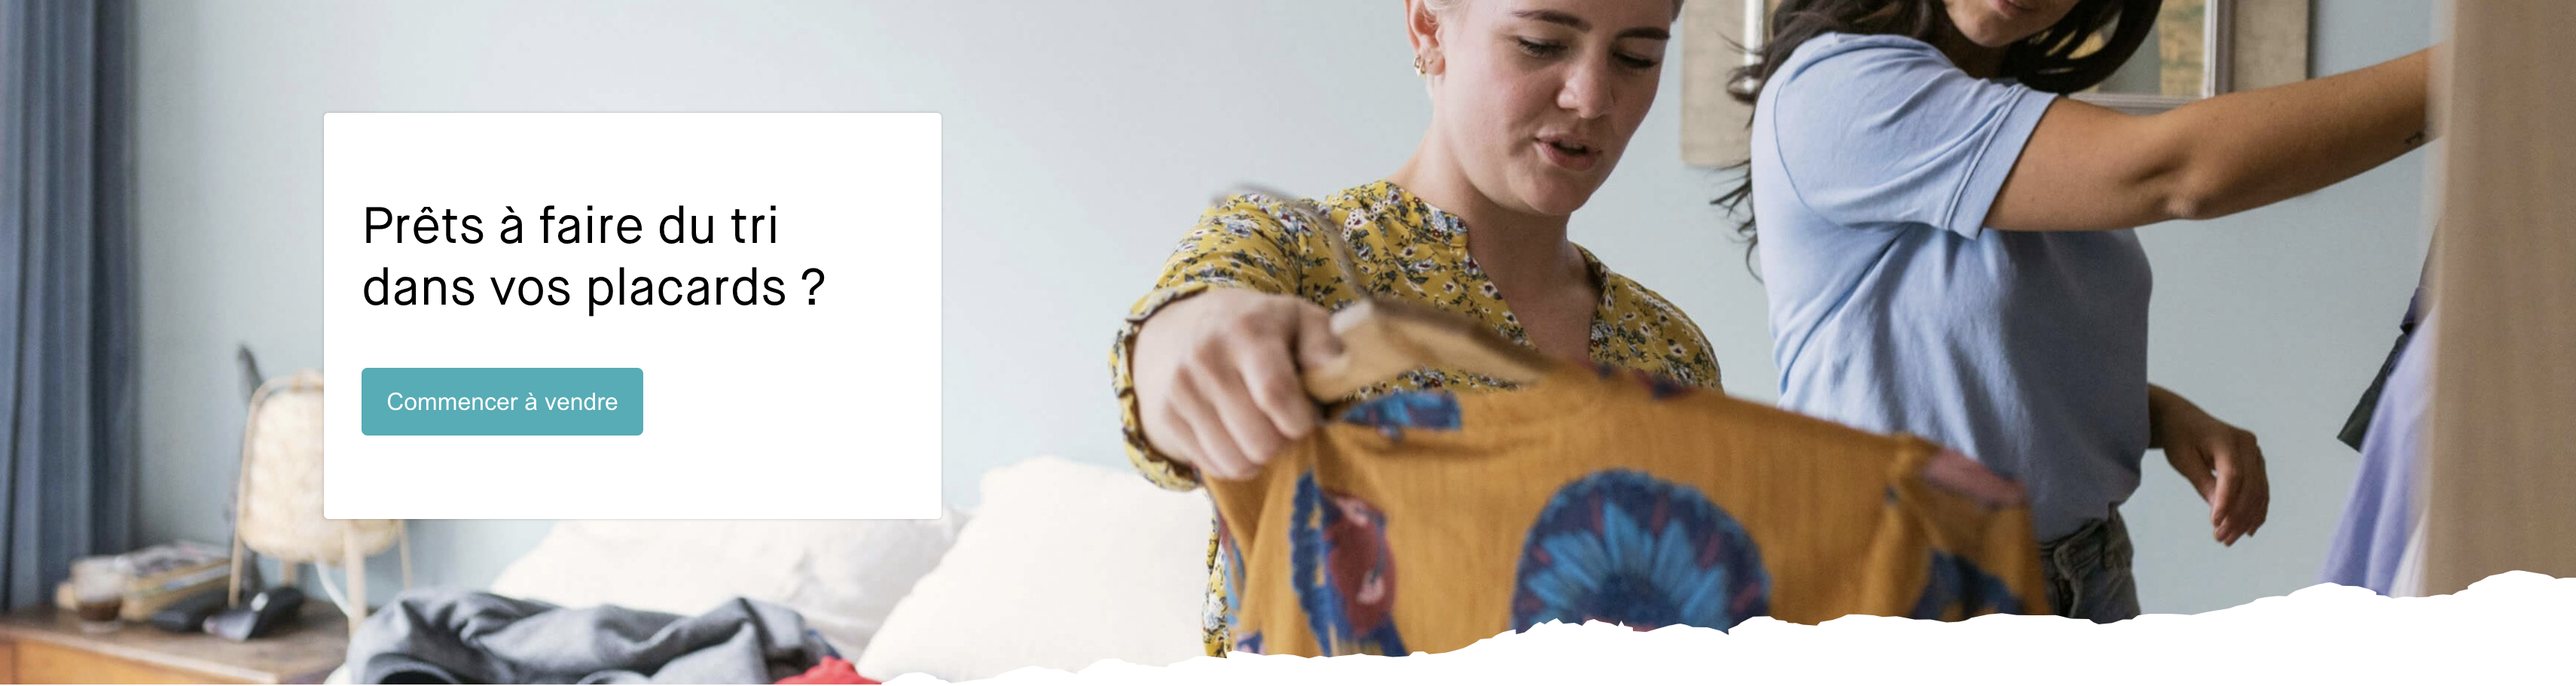
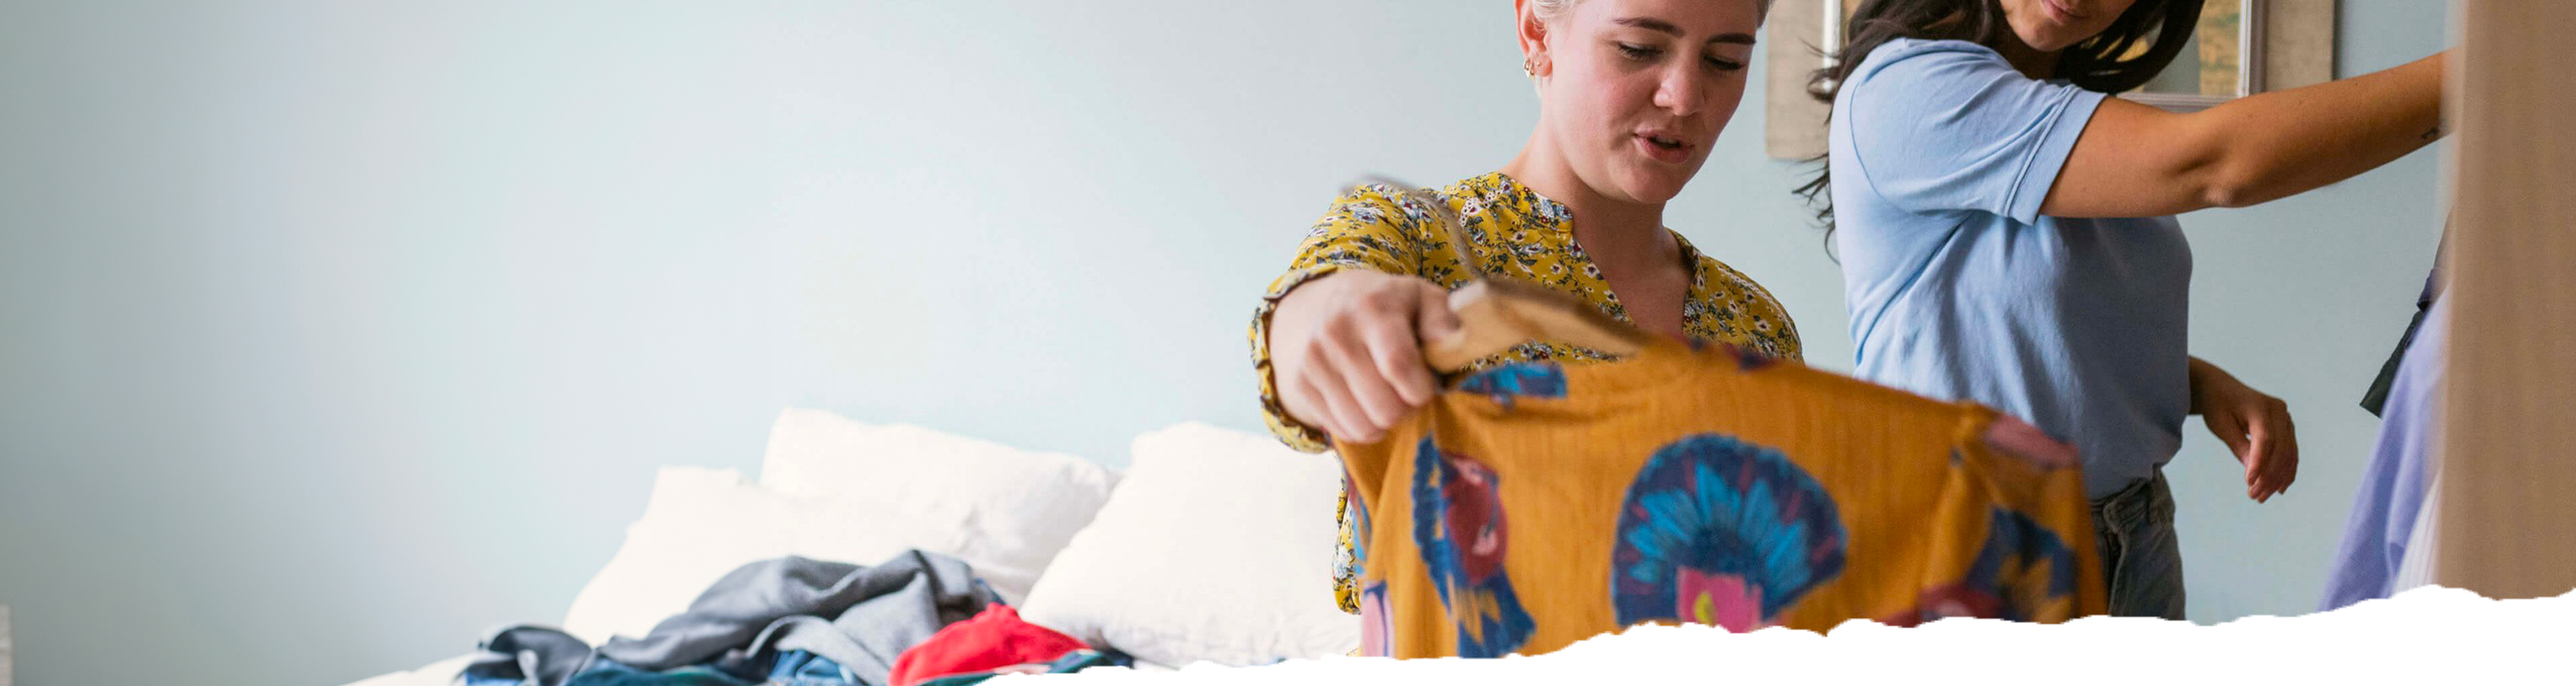
V0.9

diff --git a/src/App.jsx b/src/App.jsx
@@ -16,8 +16,10 @@ function App() {
   const [filter, setFilter] = useState(false);
   const [token, setToken] = useState("");
   const [valueToken, setValueToken] = useState(false);
+  const [modalsignup, setModalsignup] = useState(false);
+  const [modalLogin, setModalLogin] = useState(false);
 
-  // -------------------GET DATA ARTICLES-------------------------
+  // -------------------APPEL API (pour récupérer les produits) -------------------------
   useEffect(() => {
     const fetchData = async () => {
       try {
@@ -77,9 +79,25 @@ function App() {
         setToken={setToken}
         valueToken={valueToken}
         setValueToken={setValueToken}
+        modalLogin={modalLogin}
+        setModalLogin={setModalLogin}
+        modalsignup={modalsignup}
+        setModalsignup={setModalsignup}
       />
       <Routes>
-        <Route path="/" element={<Home data={data} />} />
+        <Route
+          path="/"
+          element={
+            <Home
+              data={data}
+              modalLogin={modalLogin}
+              setModalLogin={setModalLogin}
+              modalsignup={modalsignup}
+              setModalsignup={setModalsignup}
+              valueToken={valueToken}
+            />
+          }
+        />
         <Route path="/Offer/:id" element={<Offer data={data} />} />
       </Routes>
     </Router>

diff --git a/src/components/header.jsx b/src/components/header.jsx
@@ -15,16 +15,18 @@ const Header = ({
   setToken,
   valueToken,
   setValueToken,
+  modalLogin,
+  setModalLogin,
+  modalsignup,
+  setModalsignup,
 }) => {
-  const [modalsignup, setModalsignup] = useState(false);
-  const [modalLogin, setModalLogin] = useState(false);
   const [bgLock, setBgLock] = useState("");
 
   // console.log(Cookies.get("token"));
   // console.log("token >>>>>>", token);
   // console.log("valueToken>>>>", valueToken);
 
-  // pour gérer la fenetre modal
+  //etats pour gérer les fenetres modal
   useEffect(() => {
     if (modalLogin || modalsignup) {
       document.body.style.overflow = "hidden";
@@ -80,7 +82,7 @@ const Header = ({
               FILTRES
             </div>
           </div>
-          {/* ------------------------FENETRE MODEL--------------------------- */}
+          {/* ------------------------FENETRES MODEL--------------------------- */}
           <div className="menup-box">
             <div className="menup1">
               <button
@@ -100,6 +102,7 @@ const Header = ({
                     setBgLock();
                   } else {
                     setValueToken(false);
+                    Cookies.remove("token");
                   }
                 }}
               >

diff --git a/src/App.css b/src/App.css
@@ -9,6 +9,12 @@ body {
   font-family: Arial, Helvetica, sans-serif;
 }
 
+h1 {
+  font-size: 34px;
+  padding: 40px;
+  line-height: 45px;
+}
+
 h2 {
   font-size: 24px;
   text-align: center;
@@ -135,6 +141,26 @@ header img {
   height: 450px;
 }
 
+.box-slider {
+  height: 265px;
+  width: 410px;
+  background-color: white;
+  position: absolute;
+  top: -365px;
+}
+
+.box-slider button {
+  all: unset;
+  text-align: center;
+  width: 200px;
+  height: 45px;
+  background-color: #09b0ba;
+  color: white;
+  font-size: 16px;
+  border-radius: 3px;
+  margin: 0px 0px 0px 40px;
+}
+
 /* ---------------------ARTICLES------------------- */
 
 .wrapper {
@@ -143,6 +169,7 @@ header img {
   display: flex;
   flex-wrap: wrap;
   gap: 10px;
+  position: relative;
 }
 
 .articles {
@@ -289,6 +316,7 @@ header img {
 
 .sign-container {
   position: absolute;
+  z-index: 1;
   top: 80px;
   left: 0;
   width: 100%;

diff --git a/src/pages/home.jsx b/src/pages/home.jsx
@@ -2,13 +2,28 @@ import { Link } from "react-router-dom";
 import slide from "../images/screen.png";
 import Articles from "../components/articles";
 
-const Home = ({ data }) => {
+const Home = ({ data, modalLogin, setModalLogin, valueToken }) => {
   return (
     <>
       <div className="slider">
         <img src={slide} alt="" />
       </div>
       <div className="wrapper">
+        <div className="box-slider">
+          {!valueToken ? (
+            <h1>Prêts à faire du tri dans vos placards ?</h1>
+          ) : (
+            <h1>Bienvenue</h1>
+          )}
+          <button
+            onClick={() => {
+              setModalLogin(!modalLogin);
+            }}
+          >
+            {!valueToken ? "Connectez-vous d'abord" : "Commencez à vendre"}
+          </button>
+        </div>
+
         {data.offers.map((tab) => {
           return (
             <div key={tab._id}>
